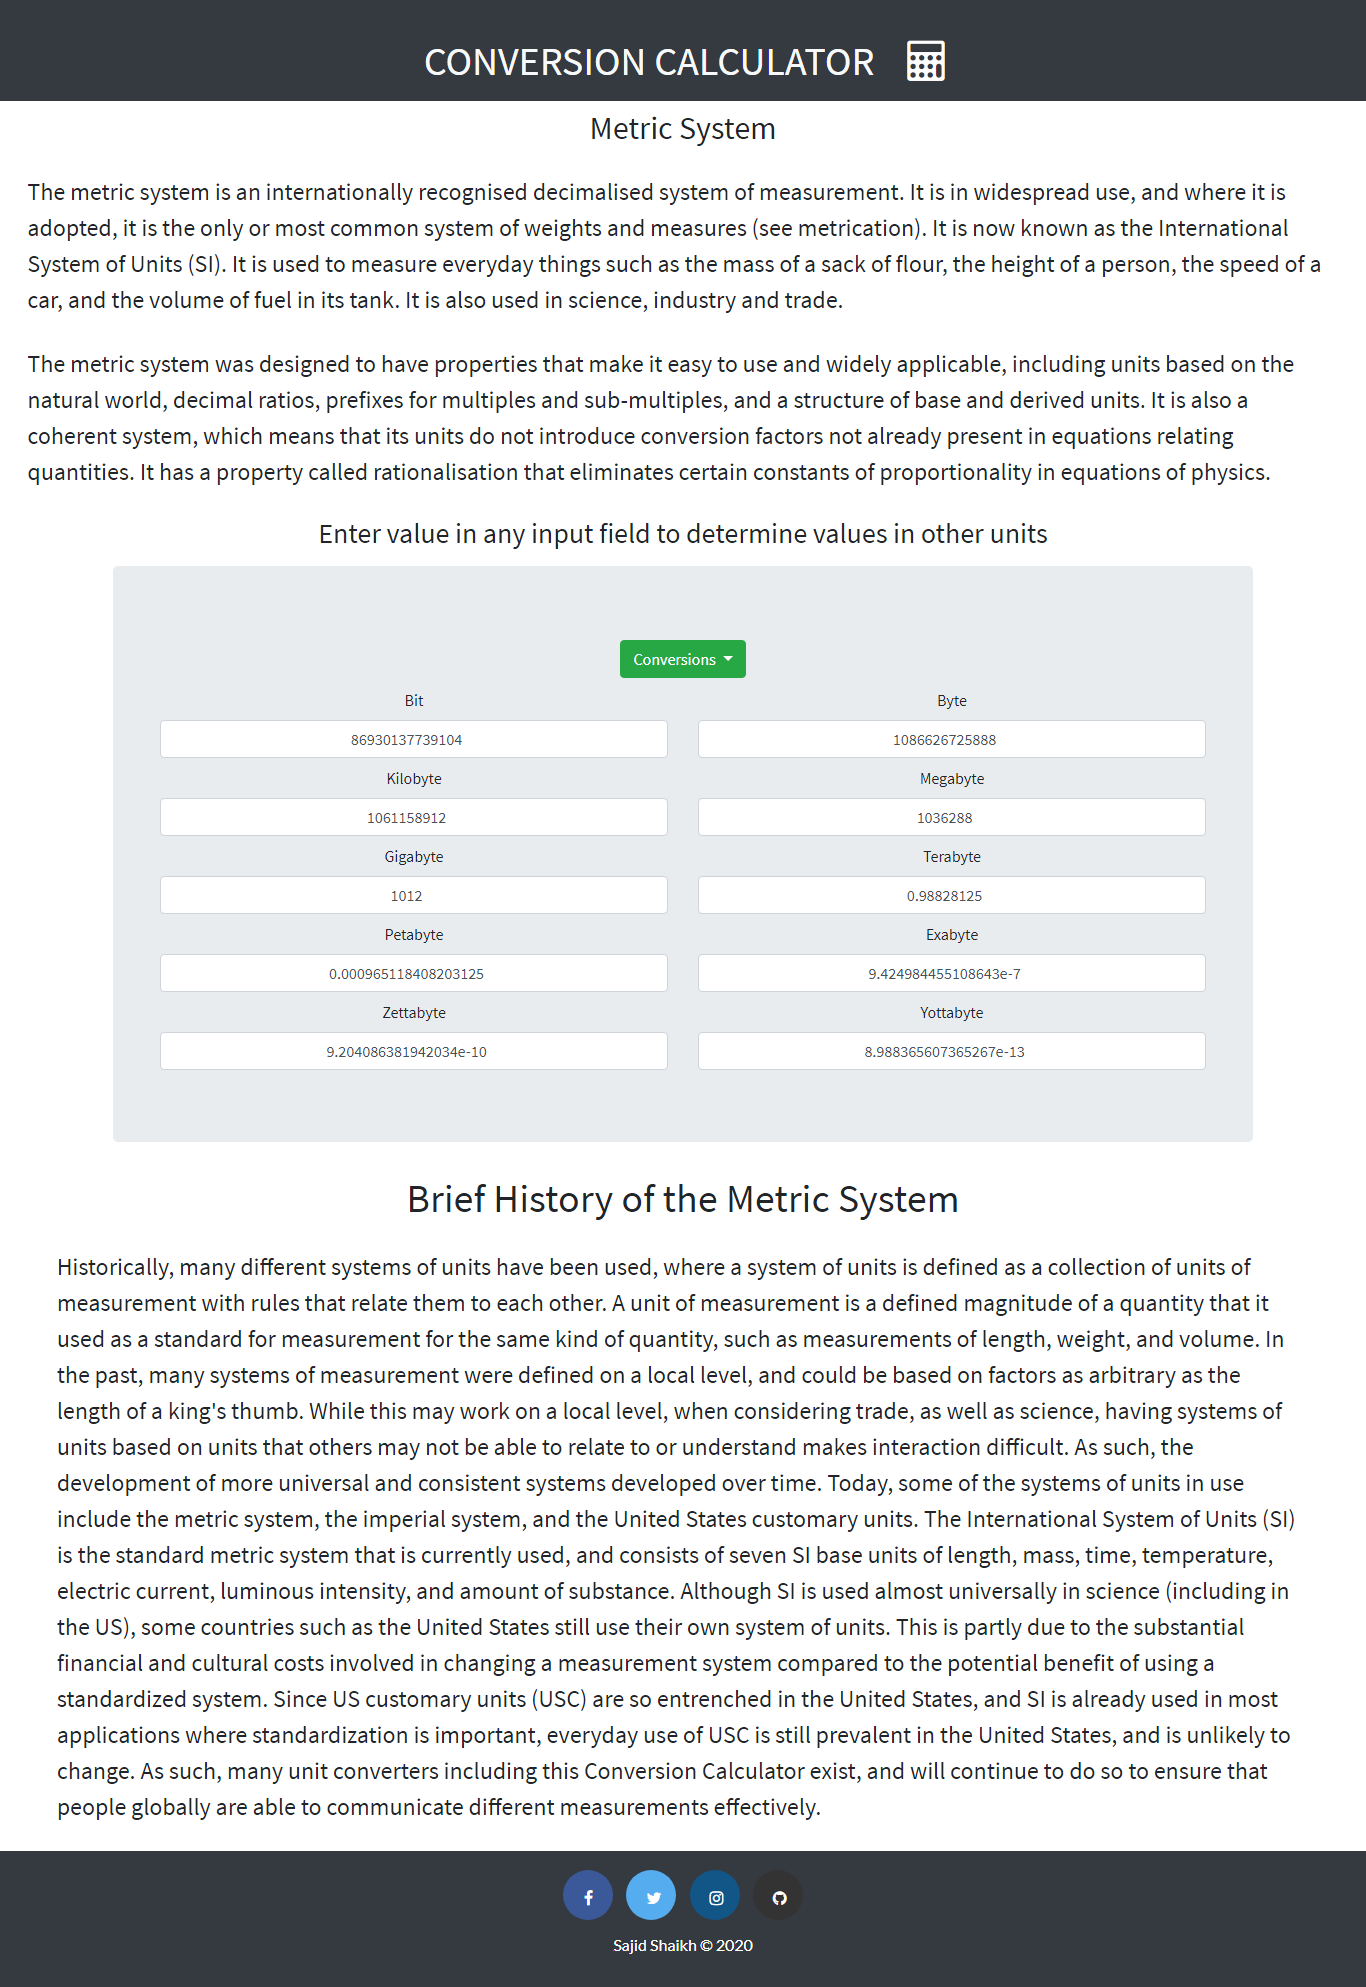
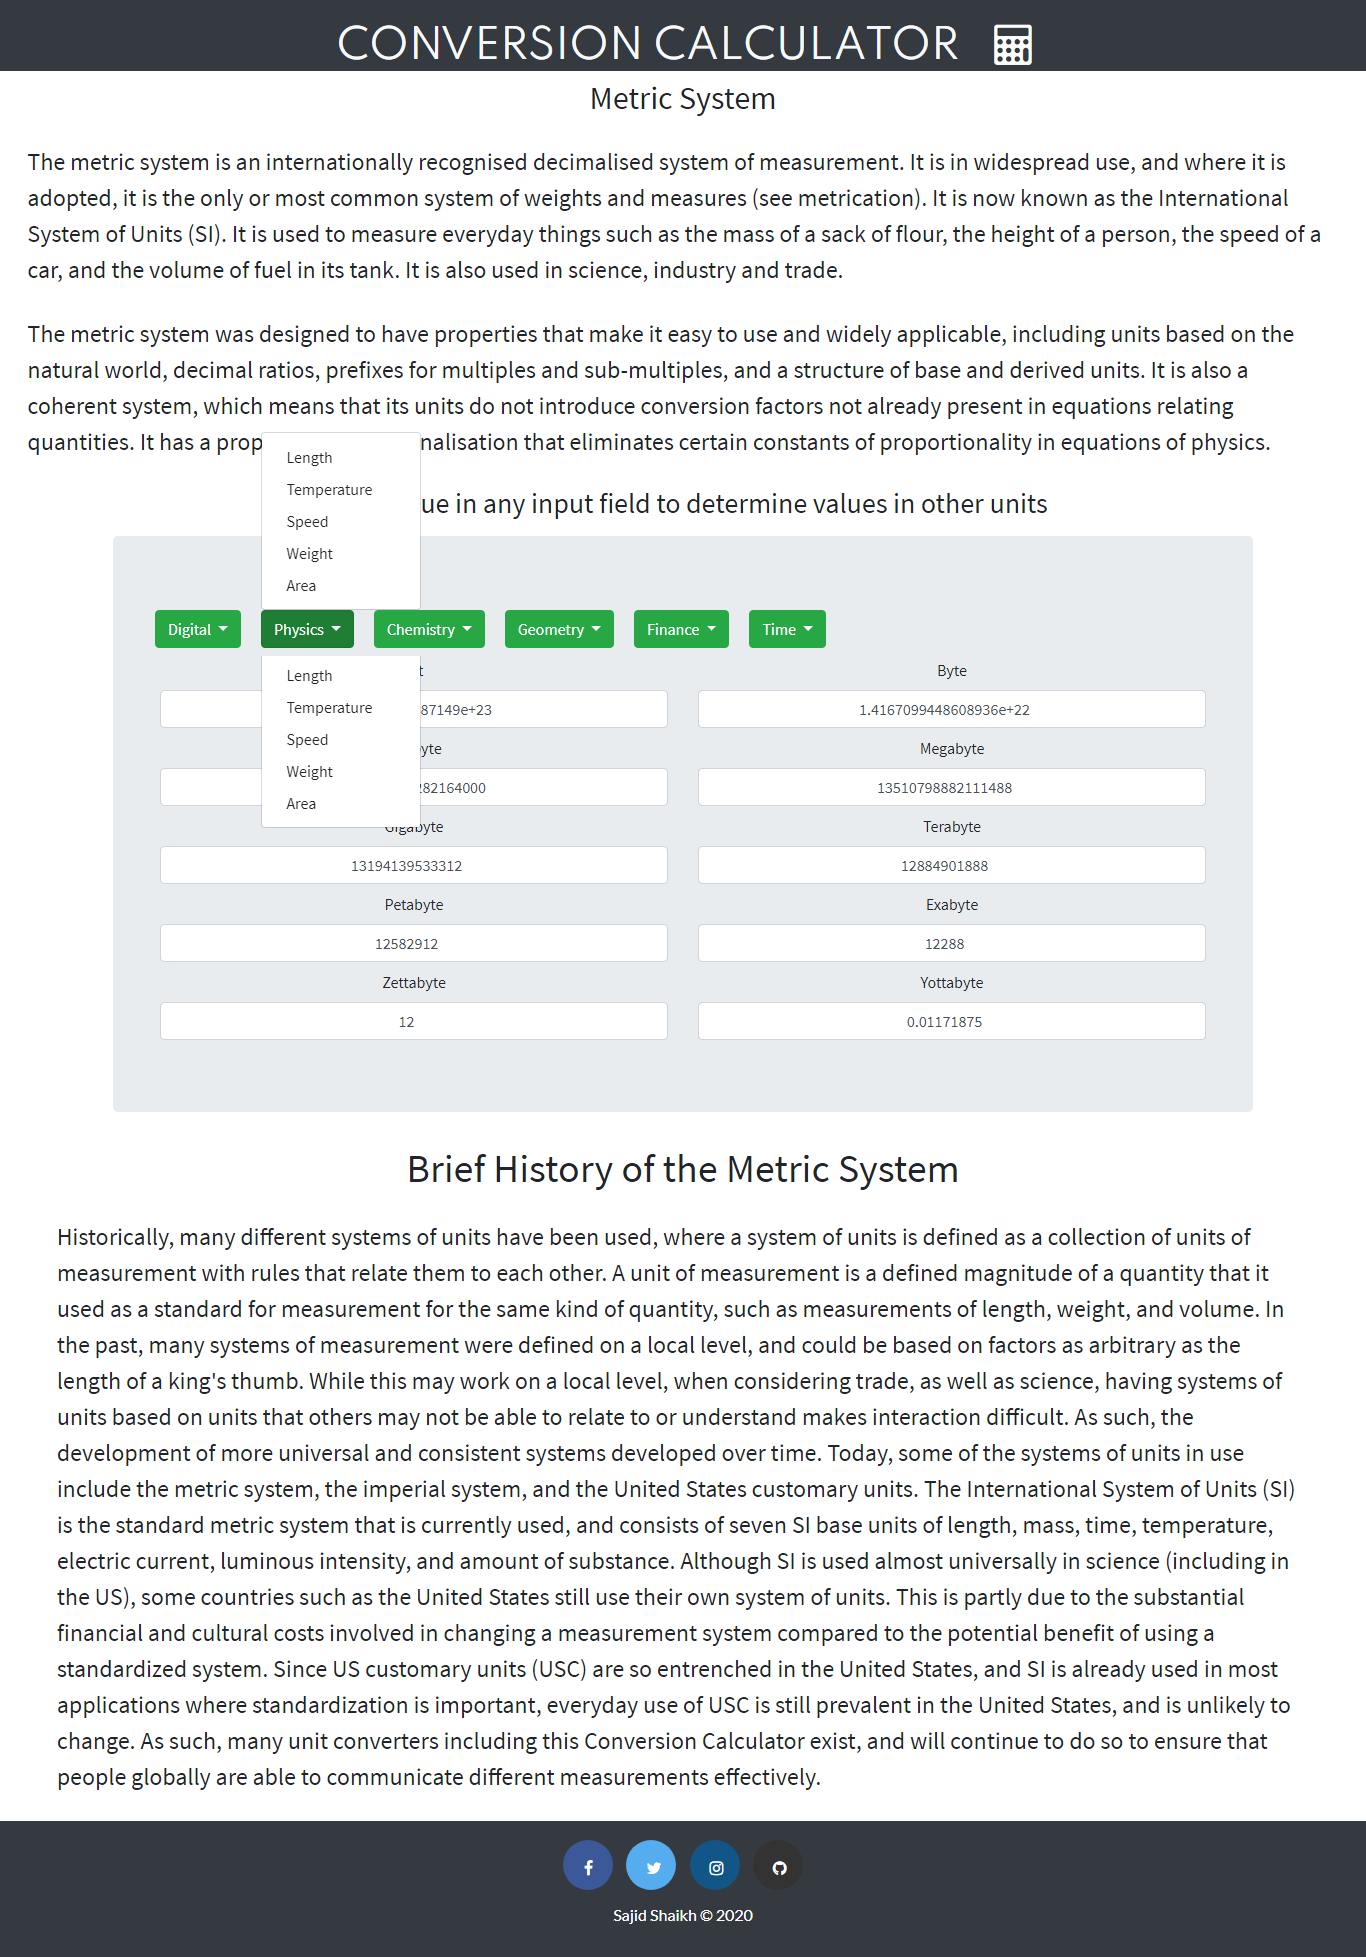
added square, fixed navigation

Changed region(s): [[0.0307, 0.5922, 0.9531, 0.9663], [0.0, 0.0, 1.0, 0.5299], [0.6457, 0.3429, 0.7379, 0.5299]]

diff --git a/html/geometry/square.html b/html/geometry/square.html
@@ -1,9 +1,9 @@
 <!DOCTYPE html>
 <html>
-<title>Unit Converter - Weight</title>
+<title>Unit Converter - Square</title>
 <head>
-  <link rel="icon" href="image/calculator_icon.png">
-  <link rel="stylesheet" href="style/index.css">
+  <link rel="icon" href="../../image/calculator_icon.png">
+  <link rel="stylesheet" href="../../style/index.css">
   <!-- bootstrap --><link rel="stylesheet" href="https://maxcdn.bootstrapcdn.com/bootstrap/4.0.0/css/bootstrap.min.css" integrity="sha384-Gn5384xqQ1aoWXA+058RXPxPg6fy4IWvTNh0E263XmFcJlSAwiGgFAW/dAiS6JXm" crossorigin="anonymous">
   <script src="https://code.jquery.com/jquery-3.2.1.slim.min.js" integrity="sha384-KJ3o2DKtIkvYIK3UENzmM7KCkRr/rE9/Qpg6aAZGJwFDMVNA/GpGFF93hXpG5KkN" crossorigin="anonymous"></script>
 <script src="https://cdnjs.cloudflare.com/ajax/libs/popper.js/1.12.9/umd/popper.min.js" integrity="sha384-ApNbgh9B+Y1QKtv3Rn7W3mgPxhU9K/ScQsAP7hUibX39j7fakFPskvXusvfa0b4Q" crossorigin="anonymous"></script>
@@ -29,10 +29,11 @@
 <!--Meta tags above-->
 
 
+
 </head>
 <body>
-    <h2 class="text-center text-white bg-dark text-uppercase header-text"> <a href="#" class="text-light">Conversion Calculator</a> <i class="fa fa-calculator"></i></h2>
-    <h3 class="text-center">Metric System</h3>
+    <h1 class="text-center text-white bg-dark header-text text-uppercase"> <a href="#" class="text-light">Conversion Calculator</a> <i class="fa fa-calculator"></i></h1>
+    <h2 class="text-center">Metric System</h2>
     <p class="about-para">
         The metric system is an internationally recognised 
         decimalised system of measurement. It is in widespread use, 
@@ -57,9 +58,7 @@
     </p>
   <div class="container jumbotron">
   <div class="container-fluid">
-      
-      
-    <!--menu digital-->
+    
     <div class="row">
       <div class="dropdown-container text-center">
       <div class="dropdown">
@@ -69,8 +68,12 @@
         
           <div class="dropdown-menu" aria-labelledby="dropdownMenuLink">
             
-            <a class="dropdown-item" href="html/digital/number-conversion.html">Number</a>
-            <a class="dropdown-item" href="html/digital/digital-storage.html">Digital Storage</a>
+            
+            
+            
+            <a class="dropdown-item" href="../digital/number-conversion.html">Number</a>
+            <a class="dropdown-item" href="../digital/digital-storage.html">Digital Storage</a>
+            
           </div>
         </div>
         </div>
@@ -84,10 +87,12 @@
               </a>
             
               <div class="dropdown-menu" aria-labelledby="dropdownMenuLink">
-                <a class="dropdown-item" href="html/physics/length.html">Length</a>
-                <a class="dropdown-item" href="html/physics/temperature.html">Temperature</a>
-                <a class="dropdown-item" href="html/physics/speed.html">Speed</a>
-                <a class="dropdown-item" href="html/physics/area.html">Area</a>
+                <a class="dropdown-item" href="../physics/length.html">Length</a>
+                <a class="dropdown-item" href="../physics/temperature.html">Temperature</a>
+                <a class="dropdown-item" href="../physics/speed.html">Speed</a>
+                <a class="dropdown-item" href="../../index.html">Weight</a>
+                <a class="dropdown-item" href="../physics/area.html">Area</a>
+
               </div>
             </div>
             </div>
@@ -111,13 +116,12 @@
                     <div class="dropdown-container text-center">
                       <div class="dropdown">
                           <a class="btn btn-success dropdown-toggle" href="#" role="button" id="dropdownMenuLink" data-toggle="dropdown" aria-haspopup="true" aria-expanded="false">
-                          Geometry
+                            Geometry 
                           </a>
                         
                           <div class="dropdown-menu" aria-labelledby="dropdownMenuLink">
                             <!--Maths item-->
-                            <a class="dropdown-item" href="html/circle.html">Circle</a>
-                            <a class="dropdown-item" href="html/geometry/square.html">Square</a>
+                            <a class="dropdown-item" href="circle.html">Circle</a>
                           </div>
                         </div>
                         </div>
@@ -142,76 +146,48 @@
                                   </a>
                                 
                                   <div class="dropdown-menu" aria-labelledby="dropdownMenuLink">
-                                  <!--geometry calculation-->
-                                  
+                                  <!--time calculation-->  
                                   </div>
                                 </div>
                                 </div>
 
           </div>
 
-      
         <div class="text-center">
 
 
 <div class="row">
   <div class="col">
-  <label>Pounds</label><br>
-  <input id="pounds" class="form-control text-center mb-2  mr-sm-2" type="number" placeholder="Pounds"
-  onchange="fromPoundsToOther(this.value)" oninput="fromPoundsToOther(this.value)"></div>
+  <label>Area <sup>2</sup></label><br>
+  <input id="area" class="form-control text-center mb-2  mr-sm-2" type="number" placeholder="Area"
+  onchange="fromAreaToOther(this.value)" oninput="fromAreaToOther(this.value)"></div>
         <div class="col ">
-<label>Gram</label><br>
-<input id= "grams" class="form-control text-center  mb-2 mr-sm-2" type="number" placeholder="Grams"
-onchange="fromGramToOthers(this.value)" oninput = "fromGramToOthers(this.value)"><br>
+<label>Perimeter</label><br>
+<input id= "perimeter" class="form-control text-center  mb-2 mr-sm-2" type="number" placeholder="Perimeter"
+onchange="fromPerimeterToOther(this.value)" oninput = "fromPerimeterToOther(this.value)"><br>
 </div>
 </div>
 
 
 <div class="row">
-  <div class="col">
-  <label>kilogram</label><br>
-<input id= "kilogram" class="form-control text-center  mb-2 mr-sm-2" type="number" placeholder="Kilogram"
-onchange="fromKilogramToOther(this.value)" oninput = "fromKilogramToOther(this.value)">
-</div>
-<div class="col">
-<label>Ounces</label><br>
-<input id= "ounce" class="form-control text-center  mb-2 mr-sm-2" type="number" placeholder="Ounce"
-onchange="fromOuncesToOther(this.value)" oninput = "fromOuncesToOther(this.value)">
-</div>
-</div>
-
-<div class="row">
 
   <div class="col">
-<label>Stone</label><br>
-<input id= "stone" class="form-control text-center  mb-2 mr-sm-2" type="number" placeholder="Stone"
-onchange="fromStoneToOthers(this.value)" oninput = "fromStoneToOthers(this.value)">
-</div>
-<div class="col">
-<label>Carat</label><br>
-<input id= "carat" class="form-control text-center  mb-2 mr-sm-2" type="number" placeholder="Carat"
-onchange="fromCaratToOthers(this.value)" oninput = "fromCaratToOthers(this.value)">
-</div>
-</div>
-
-<div class="row">
-  <div class="col">
-<label>Miligrams</label><br>
-<input id= "miligram" class="form-control text-center  mb-2 mr-sm-2" type="number" placeholder="Miligrams"
-onchange="fromMiligramToOthers(this.value)" oninput = "fromMiligramToOthers(this.value)">
+  <label>Diagonal</label><br>
+<input id= "diagonal" class="form-control text-center  mb-2 mr-sm-2" type="number" placeholder="Diagonal"
+onchange="fromDiagonalToOther(this.value)" oninput = "fromDiagonalToOther(this.value)">
 </div>
 
 <div class="col">
-    <label>Metric ton</label><br>
-    <input id= "metric-ton" class="form-control text-center  mb-2 mr-sm-2" type="number" placeholder="Metric Ton"
-    onchange="fromMetricTonToOthers(this.value)" oninput = "fromMetricTonToOthers(this.value)">
-    </div>
+    <label>Side</label><br>
+  <input id= "side" class="form-control text-center  mb-2 mr-sm-2" type="number" placeholder="Side"
+  onchange="fromSideToOther(this.value)" oninput = "fromSideToOther(this.value)">
+  </div>
 
 </div>
 
 
 </div>
-<script src = "js/physics/weight-conversion.js"></script>
+<script src = "../../js/geometry/square.js"></script>
 
 </div>
 </div>
@@ -229,15 +205,15 @@ onchange="fromMiligramToOthers(this.value)" oninput = "fromMiligramToOthers(this
 
 </body>
 <footer class="bg-dark">
-  <div class="container-fluid text-center pt-1">
+  <div class="container-fluid text-center">
       <a href="https://www.facebook.com/shaikhsajid1111" class="fa fa-facebook" target="_blank"></a>
       <a href="https://www.twitter.com/shaikhsajid1111" class="fa fa-twitter" target="_blank"></a>
       <a href="https://www.instagram.com/shaikhsajid1111" class="fa fa-instagram" target="_blank"></a>
       <a href="https://www.github.com/shaikhsajid1111" class="fa fa-github" target="_blank"></a>
   </div>
-      <p class="pt-2 text-center"><a href="https://www.github.com/shaikhsajid1111" class="text-white">Sajid Shaikh &#169; 2020
-      </a></p>
-  <!--Author Shaikh Sajid-->
+  <p class="pt-2 text-center text-white"><a href="https://www.github.com/shaikhsajid1111" class="text-white">Sajid Shaikh &#169; 2020
+  </a></p>
+<!--Author Shaikh Sajid-->
 
 </footer>
 </html>

diff --git a/js/geometry/square.js b/js/geometry/square.js
@@ -1,0 +1,33 @@
+var area = document.getElementById("area");
+var perimeter = document.getElementById("perimeter");
+var diagonal = document.getElementById("diagonal");
+var side = document.getElementById("side");
+
+function fromAreaToOther(a){
+    a = parseFloat(a);
+    var side_of_square = Math.sqrt(a) 
+    side.value = side_of_square;
+    perimeter.value = 4*side_of_square;
+    diagonal.value = side_of_square*Math.sqrt(2);
+}
+function fromPerimeterToOther(pm){
+    pm = parseFloat(pm);
+    var side_of_square = pm/4;
+    side.value = side_of_square;
+    diagonal.value = side_of_square*Math.sqrt(2);
+    area.value = side_of_square*side_of_square;
+}
+function fromDiagonalToOther(q){
+    q =  parseFloat(q);
+    var side_of_square = q/Math.sqrt(2);
+    side.value = side_of_square;
+    perimeter.value = 4*side_of_square;
+    area.value = side_of_square*side_of_square;
+}
+function fromSideToOther(s){
+    s = parseFloat(s);
+    diagonal.value = s*Math.sqrt(2);
+    area.value = s*s;
+    perimeter.value = 4*s;    
+
+}

diff --git a/html/physics/length.html b/html/physics/length.html
@@ -70,8 +70,8 @@
             
             
             
-            <a class="dropdown-item" href="number-conversion.html">Number</a>
-            <a class="dropdown-item" href="digital-storage.html">Digital Storage</a>
+            <a class="dropdown-item" href="../digital/number-conversion.html">Number</a>
+            <a class="dropdown-item" href="../digital/digital-storage.html">Digital Storage</a>
           </div>
         </div>
         </div>
@@ -119,6 +119,7 @@
                           <div class="dropdown-menu" aria-labelledby="dropdownMenuLink">
                             <!--Maths item-->
                             <a class="dropdown-item" href="../geometry/circle.html">Circle</a>
+                            <a class="dropdown-item" href="../geometry/square.html">Square</a>
                           </div>
                         </div>
                         </div>

diff --git a/html/digital/digital-storage.html b/html/digital/digital-storage.html
@@ -92,6 +92,7 @@
                 <a class="dropdown-item" href="../physics/temperature.html">Temperature</a>
                 <a class="dropdown-item" href="../physics/speed.html">Speed</a>
                 <a class="dropdown-item" href="../../index.html">Weight</a>
+                <a class="dropdown-item" href="../physics/area.html">Area</a>
               </div>
             </div>
             </div>
@@ -120,6 +121,7 @@
                           <div class="dropdown-menu" aria-labelledby="dropdownMenuLink">
                             <!--Maths item-->
                             <a class="dropdown-item" href="../geometry/circle.html">Circle</a>
+                            <a class="dropdown-item" href="../geometry/square.html">Square</a>
                           </div>
                         </div>
                         </div>

diff --git a/html/digital/number-conversion.html b/html/digital/number-conversion.html
@@ -90,6 +90,7 @@
                 <a class="dropdown-item" href="../physics/temperature.html">Temperature</a>
                 <a class="dropdown-item" href="../physics/speed.html">Speed</a>
                 <a class="dropdown-item" href="../../index.html">Weight</a>
+                <a class="dropdown-item" href="../physics/area.html">Area</a>
               </div>
             </div>
             </div>
@@ -119,6 +120,7 @@
                           <div class="dropdown-menu" aria-labelledby="dropdownMenuLink">
                             <!--Maths item-->
                             <a class="dropdown-item" href="../geometry/circle.html">Circle</a>
+                            <a class="dropdown-item" href="../geometry/square.html">Square</a>
                           </div>
                         </div>
                         </div>

diff --git a/html/geometry/circle.html b/html/geometry/circle.html
@@ -116,11 +116,12 @@
                     <div class="dropdown-container text-center">
                       <div class="dropdown">
                           <a class="btn btn-success dropdown-toggle" href="#" role="button" id="dropdownMenuLink" data-toggle="dropdown" aria-haspopup="true" aria-expanded="false">
-                            Mathematics 
+                          Geometry
                           </a>
                         
                           <div class="dropdown-menu" aria-labelledby="dropdownMenuLink">
                             <!--Maths item-->
+                            <a class="dropdown-item" href="circle.html">Circle</a>
                           </div>
                         </div>
                         </div>

diff --git a/html/physics/area.html b/html/physics/area.html
@@ -121,6 +121,7 @@
                           <div class="dropdown-menu" aria-labelledby="dropdownMenuLink">
                             <!--Maths item-->
                             <a class="dropdown-item" href="../geometry/circle.html">Circle</a>
+                            <a class="dropdown-item" href="../geometry/square.html">Square</a>
                           </div>
                         </div>
                         </div>

diff --git a/html/physics/speed.html b/html/physics/speed.html
@@ -122,6 +122,7 @@
                           <div class="dropdown-menu" aria-labelledby="dropdownMenuLink">
                             <!--Maths item-->
                             <a class="dropdown-item" href="../geometry/circle.html">Circle</a>
+                            <a class="dropdown-item" href="../geometry/square.html">Square</a>
                           </div>
                         </div>
                         </div>

diff --git a/html/physics/temperature.html b/html/physics/temperature.html
@@ -114,6 +114,7 @@
                           <div class="dropdown-menu" aria-labelledby="dropdownMenuLink">
                             <!--Maths item-->
                             <a class="dropdown-item" href="../geometry/circle.html">Circle</a>
+                            <a class="dropdown-item" href="../geometry/square.html">Square</a>
                           </div>
                         </div>
                         </div>

diff --git a/README.md b/README.md
@@ -13,12 +13,16 @@
     * weight
 * Chemistry
 
-* Mathematics
-
+* Geometry
+    * Circle
+    * Square
 * Finance
 
 * Time
-**Let me know, if I can add some more conversion units** :slightly_smiling_face:
+
+
+
+*Let me know, if I can add some more conversion units* :slightly_smiling_face:
  
 Here are some screenshots
 - Area Screenshot
@@ -35,7 +39,7 @@ Here are some screenshots
 
 - storage screenshot
 
-![](screenshot/storage.png)
+![](screenshot/storage.PNG)
 
 **How to use:**
 
